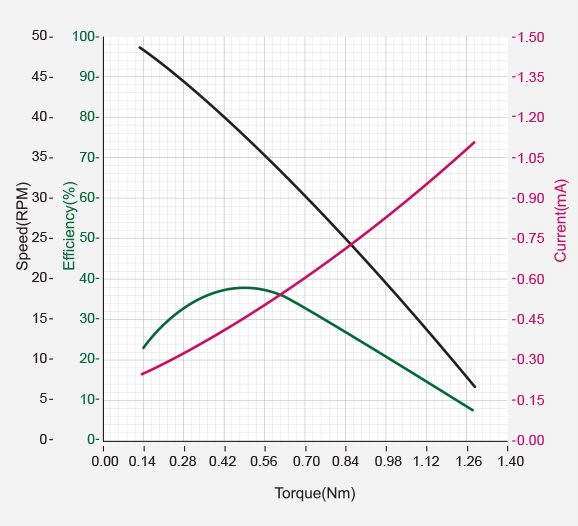
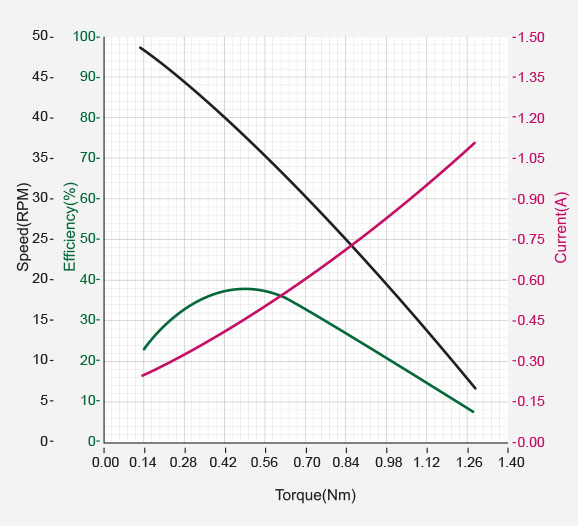
Fix MX-28, MX-64 ntgraph

diff --git a/docs/kr/dxl/mx/mx-64.md b/docs/kr/dxl/mx/mx-64.md
@@ -28,7 +28,7 @@ product_group: dxl_mx
 
 ## [성능 그래프](#성능-그래프)
 
-![](/assets/images/dxl/mx/mx-64_ntgraph_2.jpg)
+![](/assets/images/dxl/mx/mx-64_ntgraph.jpg)
 
 {% include kr/dxl/note_performance_graph.md %}
 
